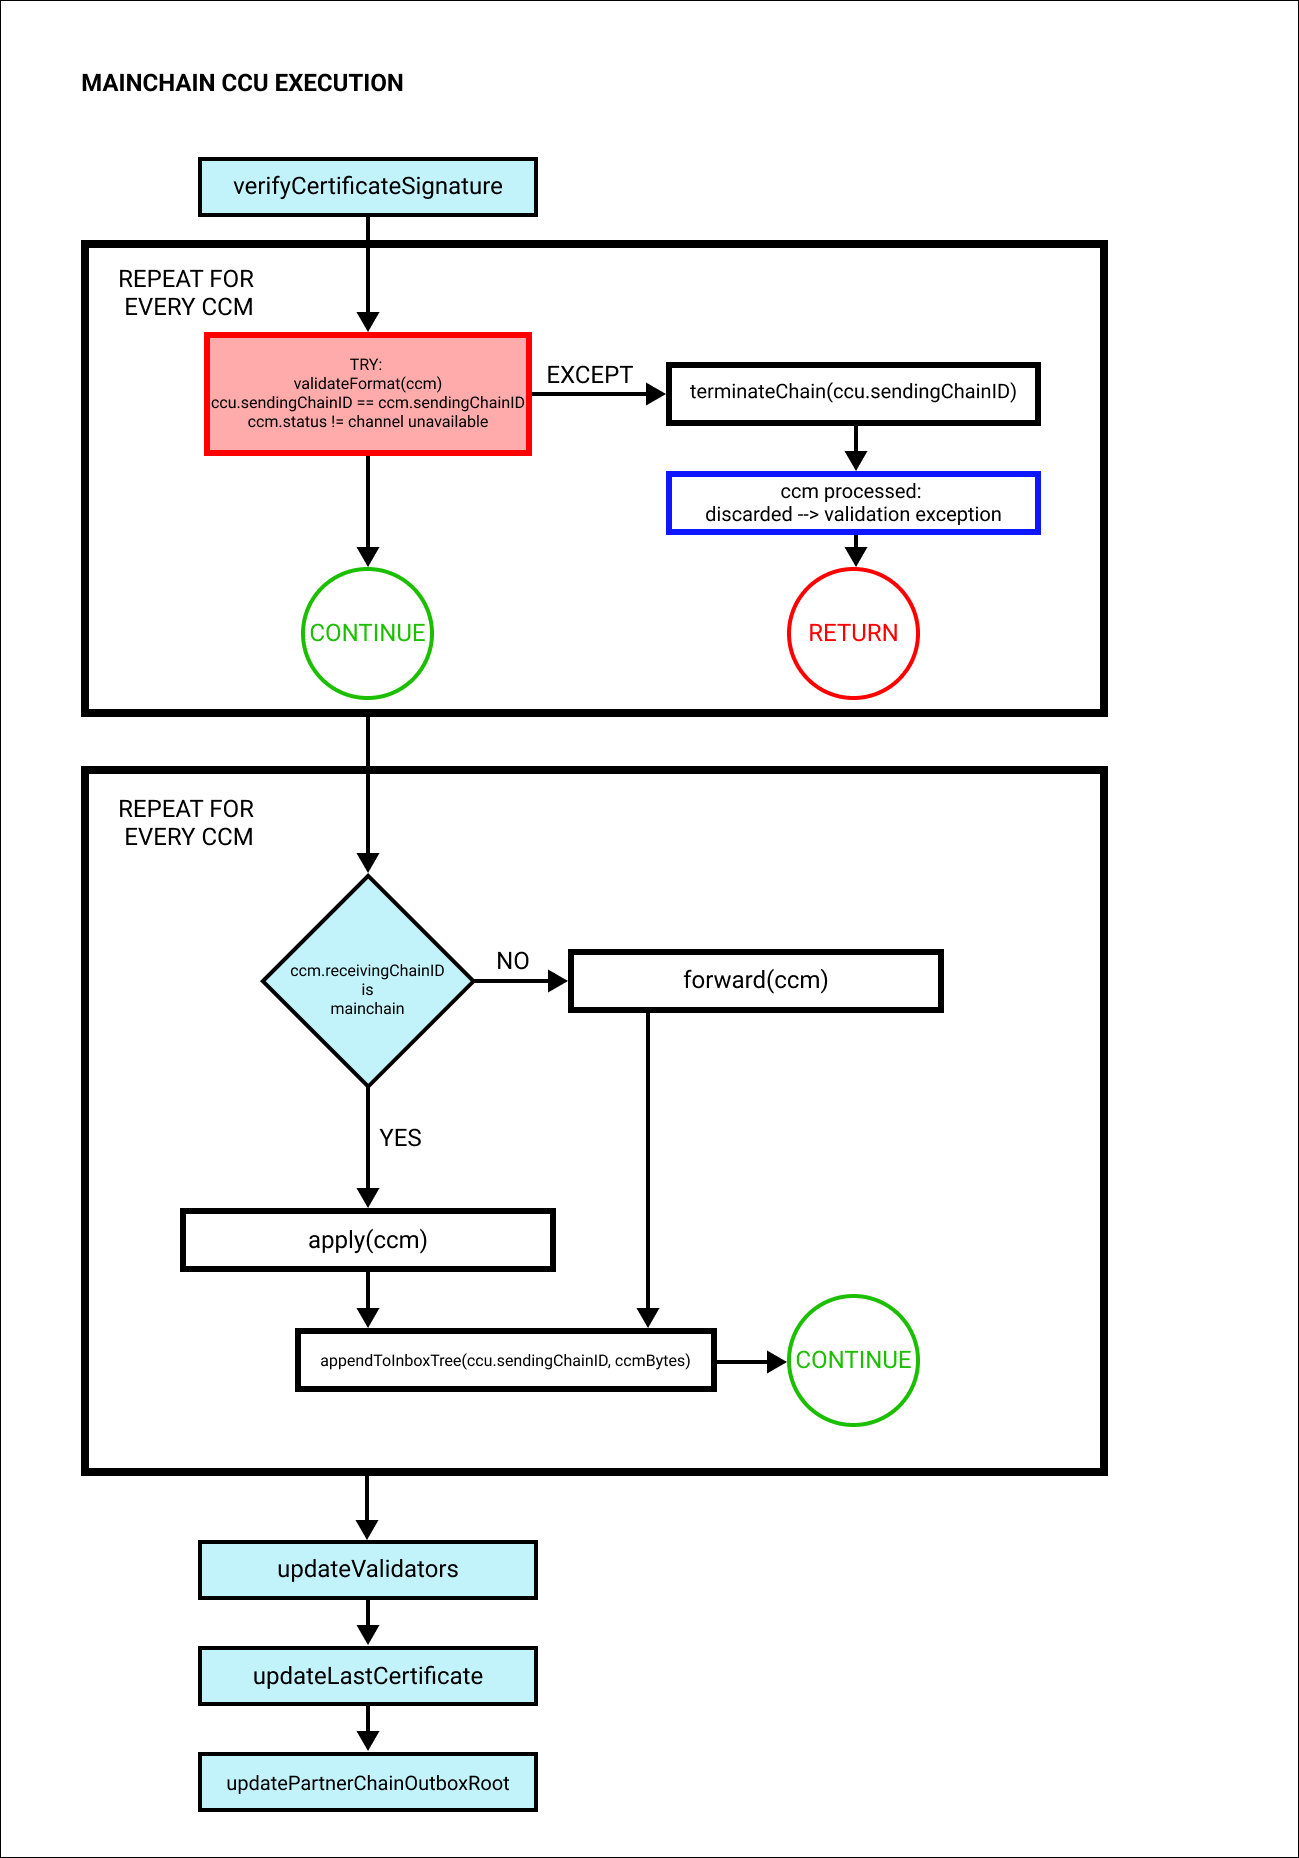
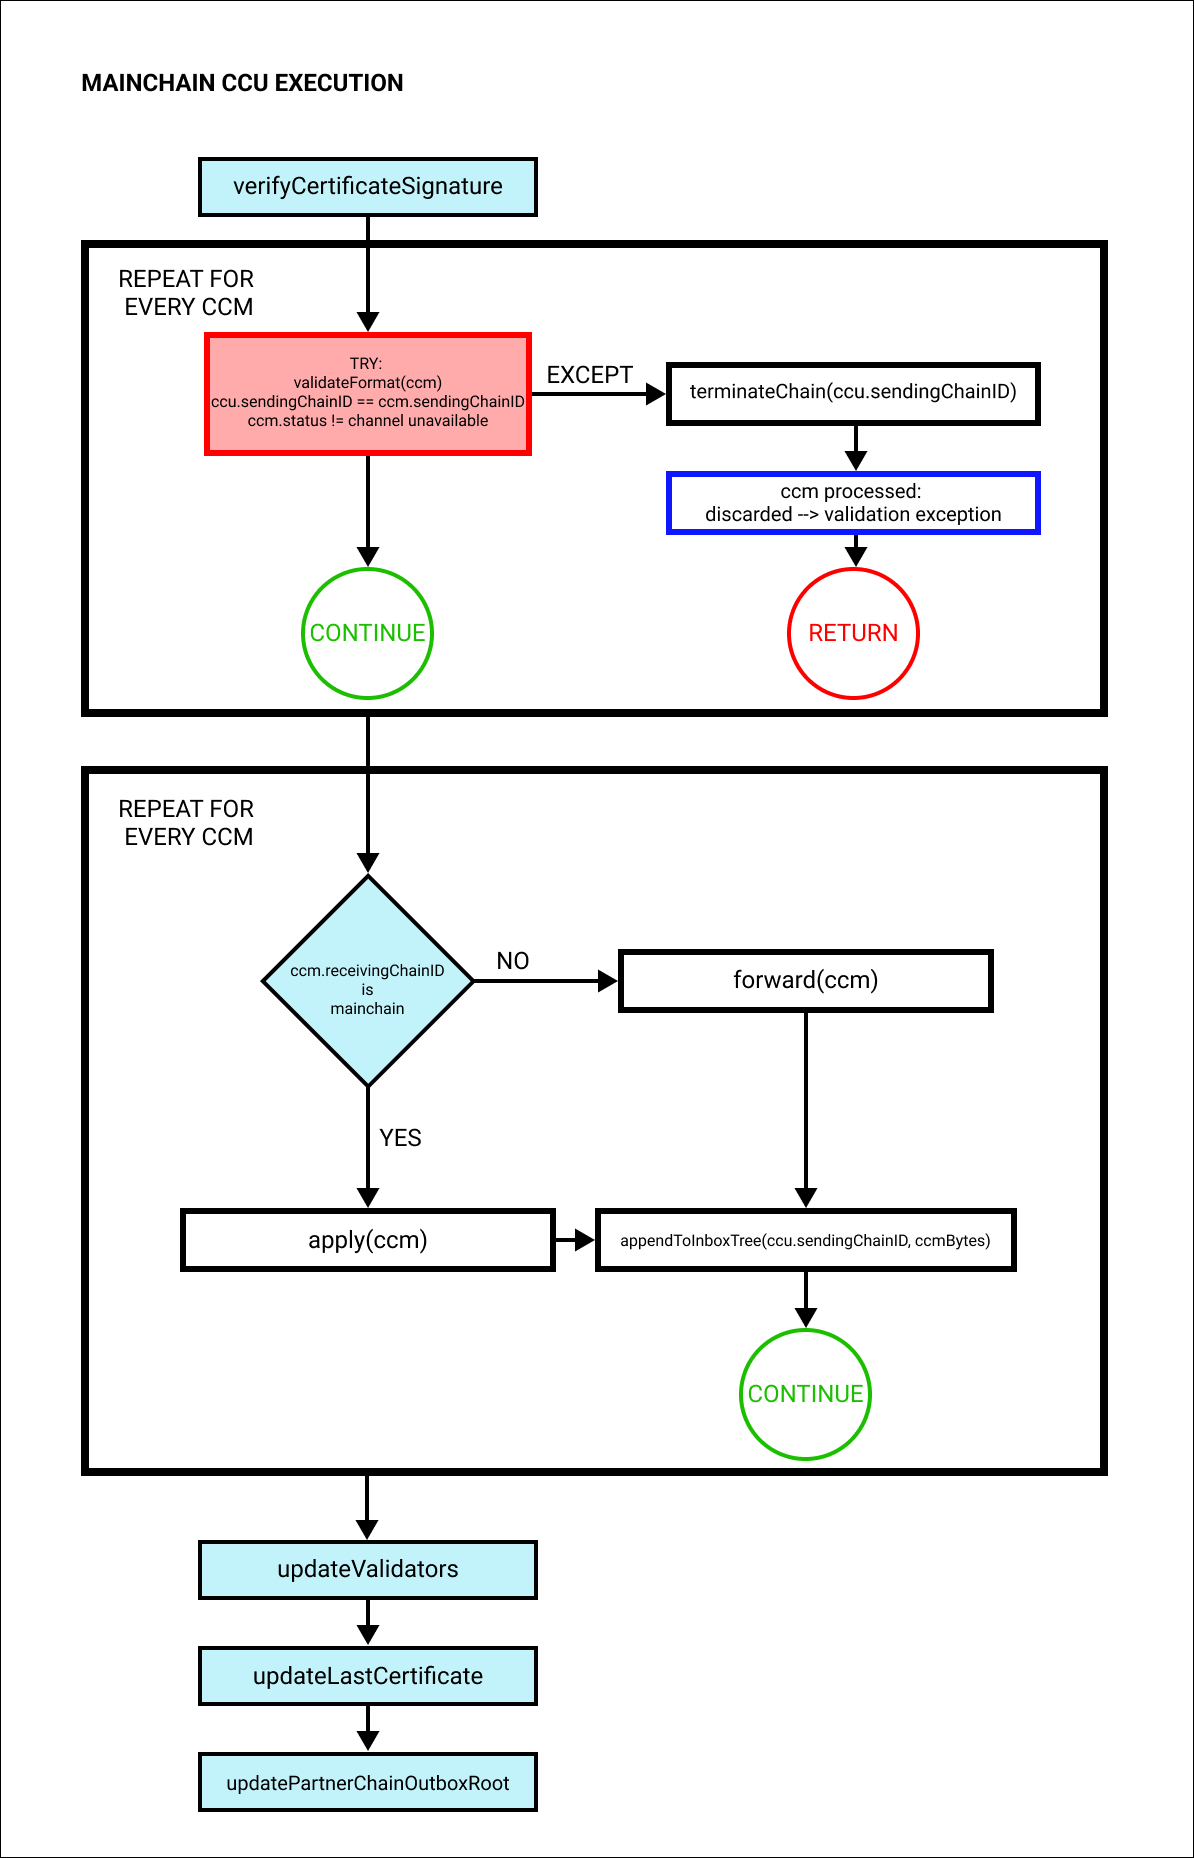
add figures

Changed region(s): [[0.062, 0.0312, 0.9296, 0.8116], [0.1549, 0.7804, 0.4648, 0.9989], [0.124, 0.6555, 0.1549, 0.6868]]

diff --git a/proposals/lip-0049.md b/proposals/lip-0049.md
@@ -220,6 +220,10 @@ def validateFormat(ccm: CCM) -> None:
 
 The `apply` function applies a cross-chain message, in the context of a cross-chain update `ccu`.
 
+<img src="lip-0049/apply.png" width="80%">
+
+_Figure 1: A schematic of the steps executed in the `pply` function. Blue boredered boxes indicate the emission of an event. Function called from other modules during the CCM execution (indicated as `mdl.<FUNCTION_NAME>` are repeated for each module in the chain for which the function exists._
+
 ```python
 def apply(ccu: Transaction, ccm: CCM) -> None:
     # Calculate CCM ID, used later in events.
@@ -258,7 +262,7 @@ def apply(ccu: Transaction, ccm: CCM) -> None:
         emitEvent(
             module = MODULE_NAME_INTEROPERABILITY,
             name = EVENT_NAME_CCM_PROCESSED,
-            data = {"ccmID": ccmID, "result": CCM_PROCESSED_RESULT_DISCARDED, "code": CCM_PROCESSED_CODE_INVALID_CCC_VERIFY_EXCEPTION},
+            data = {"ccmID": ccmID, "result": CCM_PROCESSED_RESULT_DISCARDED, "code": CCM_PROCESSED_CODE_INVALID_CCM_VERIFY_EXCEPTION},
             topics = [ccm.sendingChainID, ccm.receivingChainID]
         )
         return
@@ -313,6 +317,10 @@ def apply(ccu: Transaction, ccm: CCM) -> None:
 #### forward
 
 The `forward` function forwards a CCM to the specified receiving chain. This function is only called on the mainchain when processing a CCU. If an error occurs, the CCM is bounced back to the sending chain or discarded.
+
+<img src="lip-0049/forward.png" width="80%">
+
+_Figure 1: A schematic of the steps executed in the `pply` function. Blue boredered boxes indicate the emission of an event. Function called from other modules during the CCM execution (indicated as `mdl.<FUNCTION_NAME>` are repeated for each module in the chain for which the function exists._
 
 ```python
 def forward(ccu: Transaction, ccm: CCM) -> None:
